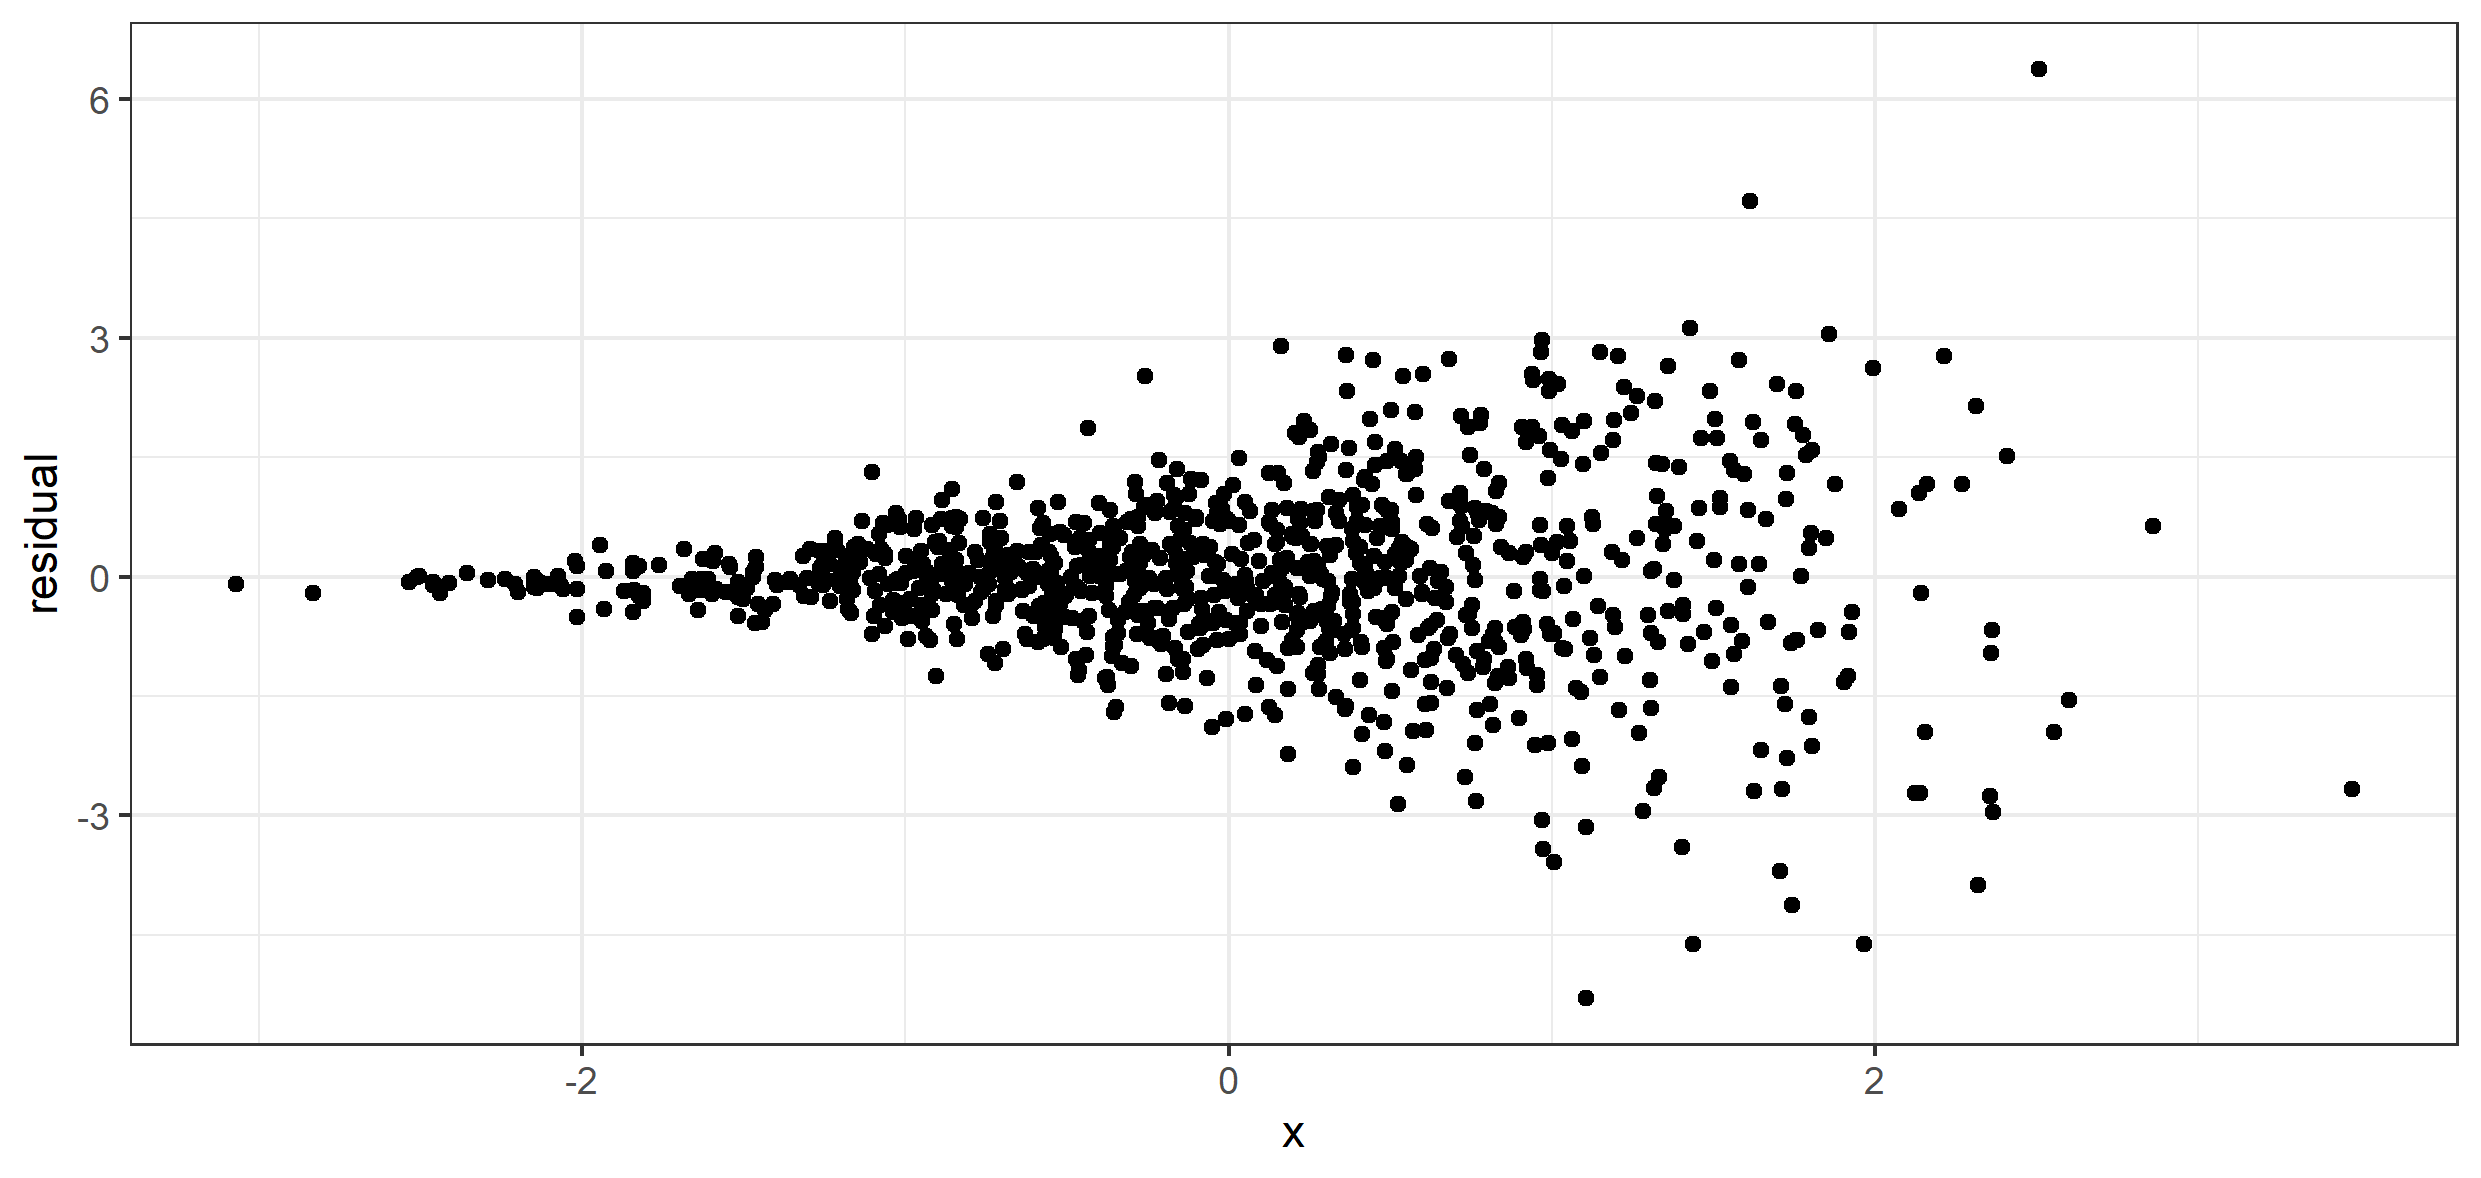
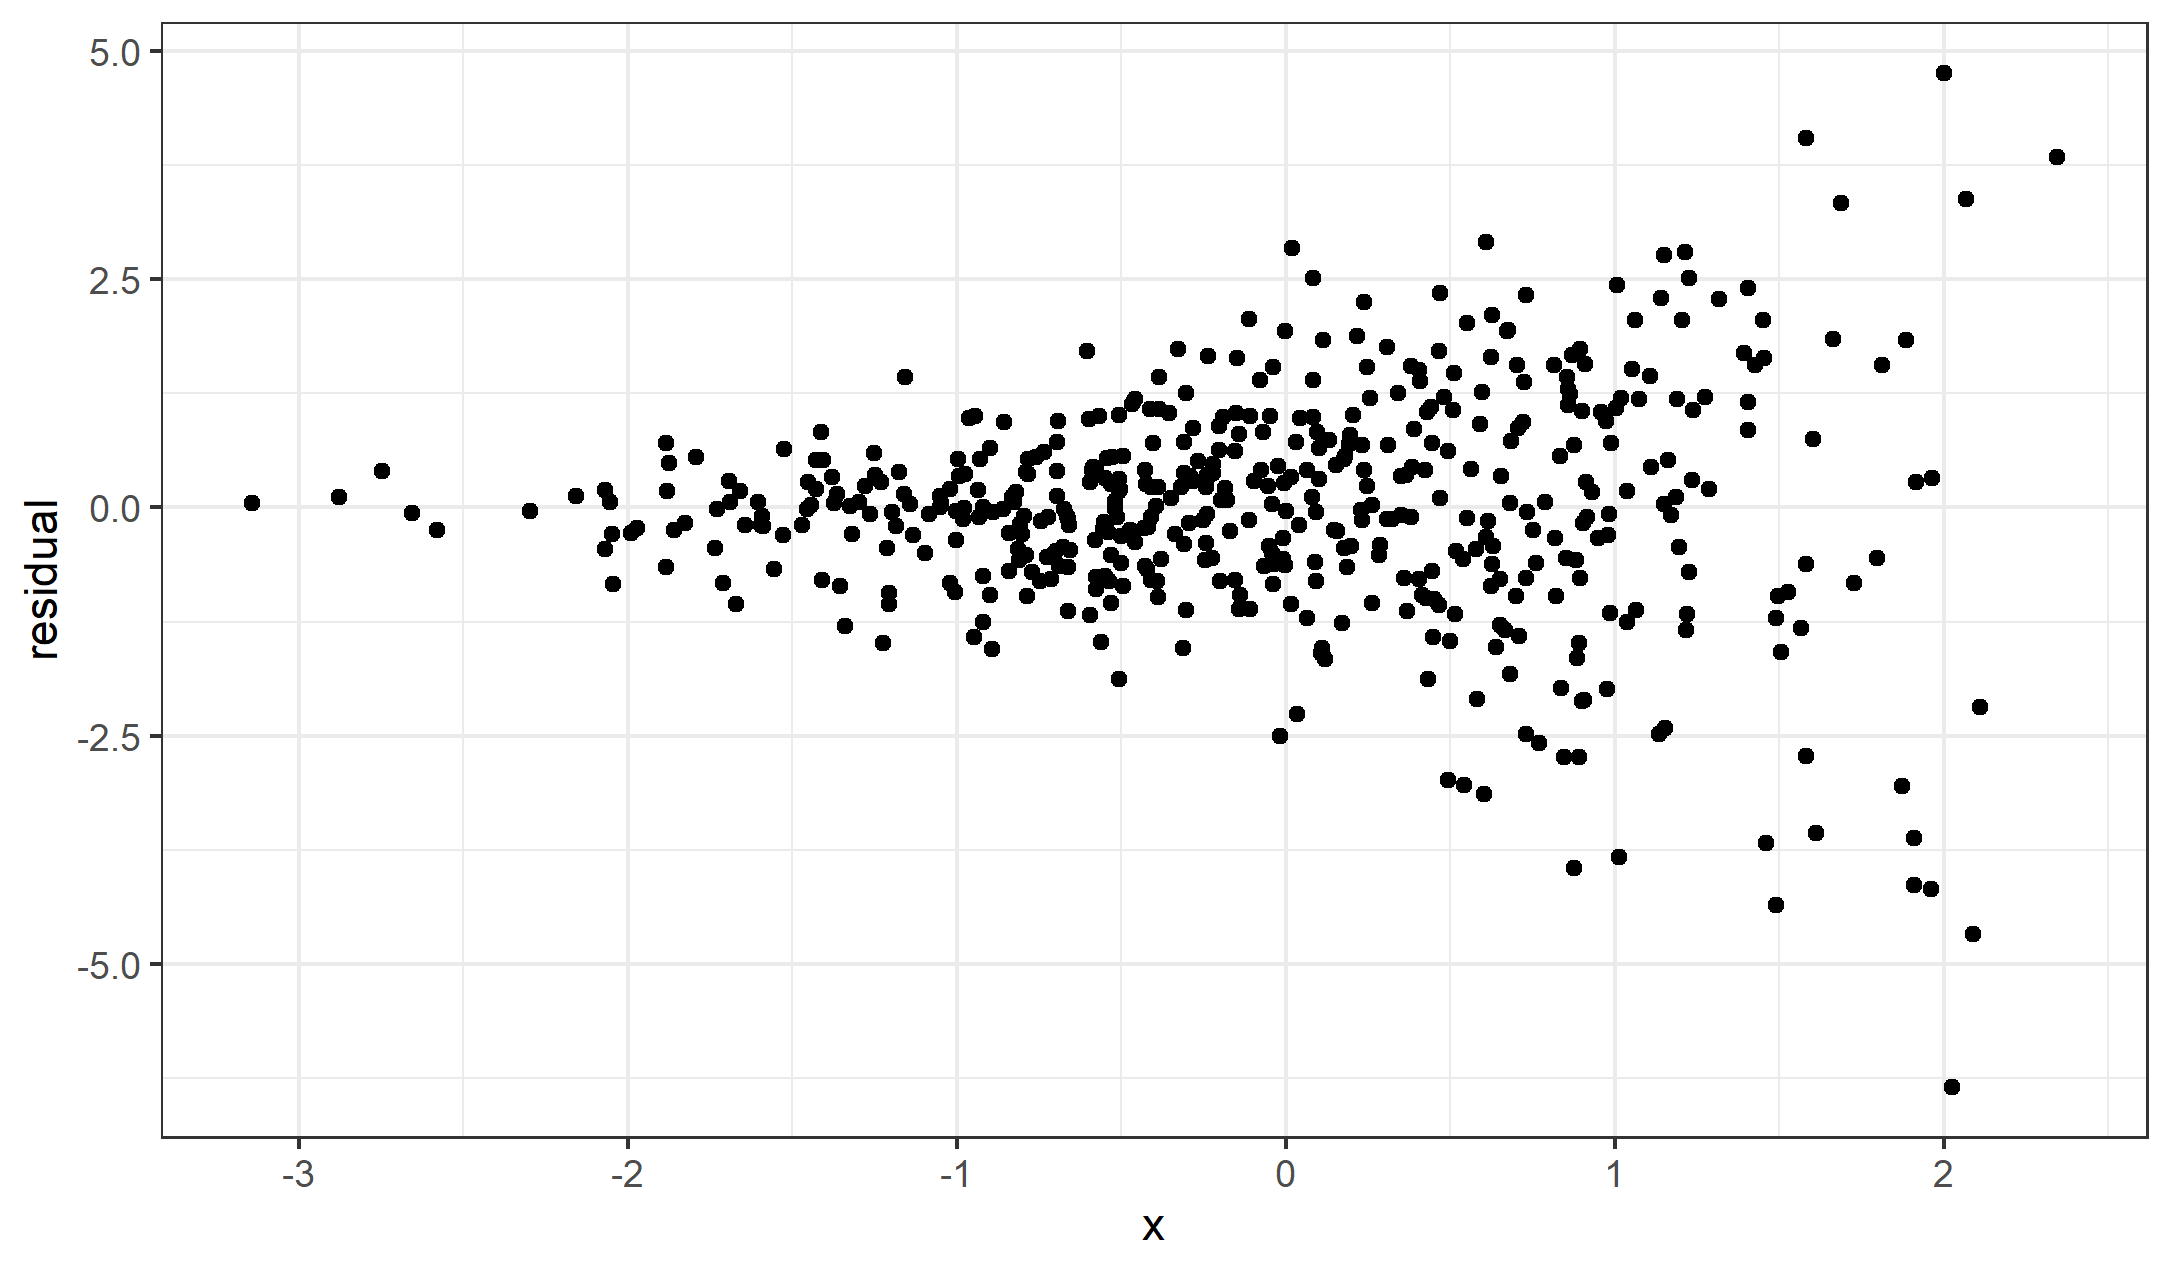
more work on example 2, fixed docs for summarize cov vs coverage

diff --git a/docs/docs/examples/example-2.md b/docs/docs/examples/example-2.md
@@ -20,7 +20,7 @@ Suppose our dataset consists of $$n$$ independent observations $$\{(Y_1, X_1), \
 
 $$Y_i = \beta_0 + \beta_1 X_i + \epsilon_i$$
 
-where $$\epsilon_i$$ is a mean-zero noise term with variance $$\sigma^2_i$$. We refer to this as a heteroskedastic model, since the variances need not be equal across all $$i$$. This is the true data-generating model. (Note: A more restrictive (but misspecified) model assumes that there is a common variance $$\sigma^2$$ such that $$\sigma^2_i = \sigma^2$$ for all $i$. We refer to this incorrect model as the homoskedastic model.) 
+where $$\epsilon_i$$ is a mean-zero noise term with variance $$\sigma^2_i$$. We refer to this as a heteroskedastic model, since the variances need not be equal across all $$i$$. This is the true data-generating model. (Note: A more restrictive (but misspecified) model assumes that there is a common variance $$\sigma^2$$ such that $$\sigma^2_i = \sigma^2$$ for all $$i$$. We refer to this incorrect model as the homoskedastic model.) 
 
 For simplicity, we build a matrix $$\mathbb{X}$$, whose first column is all 1's (the intercept column) and whose second column is $$(X_1, \dots, X_n)^T$$. We also define a matrix 
 
@@ -47,33 +47,128 @@ We start by declaring a new simulation object and writing a creator function tha
 ```R
 sim <- new_sim()
 
-sim %<>% set_config(seed = 24)
-
 sim %<>% add_creator("create_regression_data",
-  function(n) {
-    beta <- c(-1, 0.5)
-    x <- sort(rnorm(n = n))
-    sigma2 <- sort(rgamma(n = n, shape = 1, rate = 1))
-    y <- rnorm(n = n, mean = beta[1] + beta[2]*x, sd = sqrt(sigma2))
-    return(data.frame(x = x, y = y))
-  }
+                     function(n) {
+                       beta <- c(-1, 10)
+                       x <- rnorm(n)
+                       sigma2 <- exp(x)
+                       y <- rnorm(n = n, mean = beta[1] + beta[2]*x, sd = sqrt(sigma2))
+                       return(data.frame(x = x, y = y))
+                     }
 )
 ```
 
 To get a sense of what heteroskedasticity looks like in practice, we can generate a dataset using our creator function, fit a linear regression model, and make a scatterplot of the residuals against $$X$$. Again we will set a seed here - this means your scatterplot should look the same as ours. 
 
 ```R
-set.seed(55)
+set.seed(56)
 
-dat <- sim$creators$create_regression_data(n = 1000)
+dat <- sim$creators$create_regression_data(n = 500)
 linear_model <- lm(y ~ x, data = dat)
 dat$residuals <- linear_model$residuals
 
 library(ggplot2)
-ggplot(dat, aes(x = x, y = residuals)) + 
+ggplot(dat, aes(x = x, y = residuals)) +
   geom_point() +
-  theme_bw() + 
+  theme_bw() +
   labs(x = "x", y = "residual")
 ```
 
 ![Residual plot](../assets/images/example2_residual_plot.png)
+
+Now we add two methods to our simulation object: one returns the keast squares estimate and model-based estimator of the variance-covariance matrix of $$\hat{\beta}$$, and the other returns the least squares estimate and sandwich estimator (using the sandwich package). 
+
+```R
+sim %<>% add_method("model_vcov", function(data){
+  mod <- lm(y ~ x, data = data)
+  return(list("coef" = mod$coefficients, "vcov" = diag(vcov(mod))))
+})
+
+library(sandwich)
+sim %<>% add_method("sandwich_vcov", function(data){
+  mod <- lm(y ~ x, data = data)
+  return(list("coef" = mod$coefficients, "vcov" = diag(vcovHC(mod))))
+})
+```
+
+Next, we write the simulation script. This script returns a point estimate and a standard error estimate for both the intercept parameter $$\beta_0$$ and the slope parameter $$\beta_1$$. We will tell simba to run 500 simulation replicates for each of three sample sizes. It is important to use the `seed` argument in `set_config` so that our results will be reproducible. Finally, we run the simulation.  
+
+```R
+sim %<>% set_script(function() {
+  data <- create_regression_data(n = L$n)
+  # get estimate of var-cov matrix
+  estimates <- use_method(L$estimator, list(data))
+  return(list("beta0_est" = estimates$coef[1],
+              "beta1_est" = estimates$coef[2],
+              "beta0_se_est" = sqrt(estimates$vcov[1]),
+              "beta1_se_est" = sqrt(estimates$vcov[2])))
+})
+
+sim %<>% set_levels(
+  estimator = c("model_vcov", "sandwich_vcov"),
+  n = c(50, 100, 500, 1000)
+)
+
+sim %<>% set_config(num_sim=500,
+                    seed = 24)
+
+sim %<>% run()
+```
+
+Now we can summarize the results using `summarize`. There are two main quantities of interest for us. The primary purpose of the standard error estimate for $$\hat{\beta}$$ is to form confidence intervals, so we will look at (1) the average width of the resulting interval (simply 1.96 times the average standard error estimate across simulation replicates), and (2) the estimated coverage of the interval, which is simply the proportion of simulation replicates in which the interval contains the true value of $$\beta$$. We will focus on 95% confidence intervals in this simulation. 
+
+```R
+summarized_results <- sim %>%
+  summarize(mean = list(list(name = "mean_se_beta0", x = "beta0_se_est"),
+                       list(name = "mean_se_beta1", x = "beta1_se_est")),
+            coverage = list(list(name = "cov_beta0", 
+                                 estimate = "beta0_est", 
+                                 se = "beta0_se_est", 
+                                 truth = -1),
+                       list(name = "cov_beta1", 
+                            estimate = "beta1_est", 
+                            se = "beta1_se_est", 
+                            truth = 10)))
+                       
+# plot results
+summarized_results %>%
+  dplyr::select(estimator, n, mean_se_beta0, mean_se_beta1) %>%
+  tidyr::pivot_longer(cols = c("mean_se_beta0", "mean_se_beta1"),
+                      names_to = "parameter",
+                      names_prefix = "mean_se_") %>%
+  ggplot(aes(x = n, y = 1.96*value, color = estimator)) +
+  geom_line(aes(linetype = parameter)) +
+  geom_point() +
+  theme_bw() +
+  ylab("Average CI width") +
+  scale_color_manual(values=c("#999999", "#E69F00"),
+                       breaks = c("model_vcov", "sandwich_vcov"),
+                       name = "SE estimator",
+                       labels = c("Model-based", "Sandwich")) +
+  scale_linetype_discrete(breaks = c("beta0", "beta1"),
+                          name = "Parameter",
+                          labels = c(expression(beta[0]), expression(beta[1])))
+                          
+summarized_results %>%
+  dplyr::select(estimator, n, cov_beta0, cov_beta1) %>%
+  tidyr::pivot_longer(cols = c("cov_beta0", "cov_beta1"),
+                      names_to = "parameter",
+                      names_prefix = "cov_") %>%
+  ggplot(aes(x = n, y = value, color = estimator)) +
+  geom_line(aes(linetype = parameter)) +
+  geom_point() +
+  theme_bw() +
+  ylab("Coverage") +
+  scale_color_manual(values=c("#999999", "#E69F00"),
+                       breaks = c("model_vcov", "sandwich_vcov"),
+                       name = "SE estimator",
+                       labels = c("Model-based", "Sandwich")) +
+  scale_linetype_discrete(breaks = c("beta0", "beta1"),
+                          name = "Parameter",
+                          labels = c(expression(beta[0]), expression(beta[1]))) +
+  geom_hline(yintercept = 0.95)
+```
+
+![Residual plot](../assets/images/example2_CI_width1.png)
+![Residual plot](../assets/images/example2_CI_cov1.png)
+
